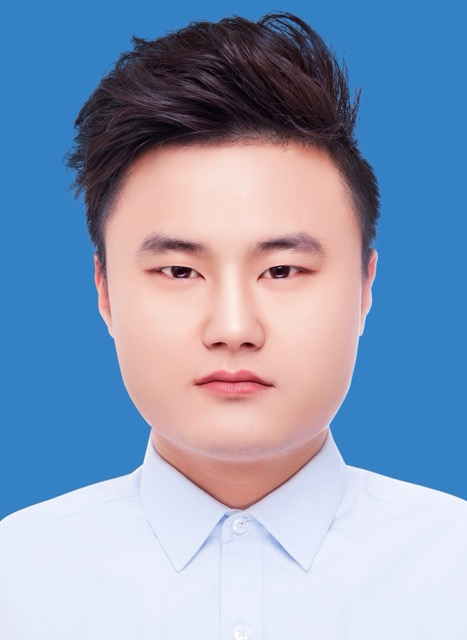
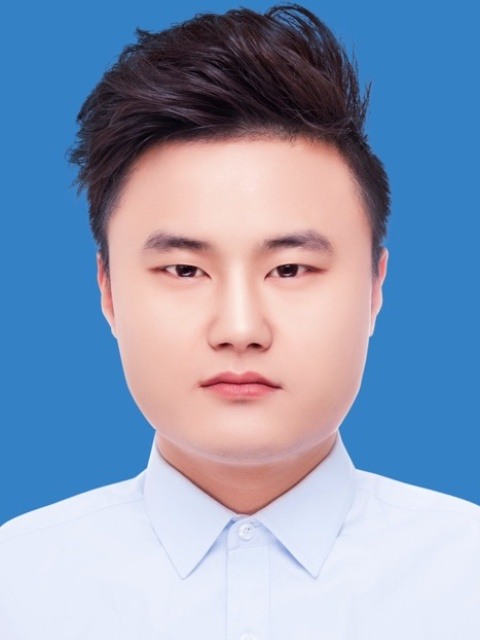
home-15

diff --git a/index.md b/index.md
@@ -4,7 +4,7 @@ classes: wide
 permalink: /
 header:
   # overlay_filter: linear-gradient(rgba(0, 0, 0, 0.5), rgba(234, 133, 52, 0.5))
-  overlay_image: "https://tiansuya.github.io/DI2Lab/assets/home-1.png"
+  overlay_image: "https://tiansuya.github.io/DI2Lab/assets/home-1.jpg"
   actions:
     - label: "<i class=\"fas fa-users\"></i>   Meet Our Team"
       url: "https://tiansuya.github.io/DI2Lab/team/"
